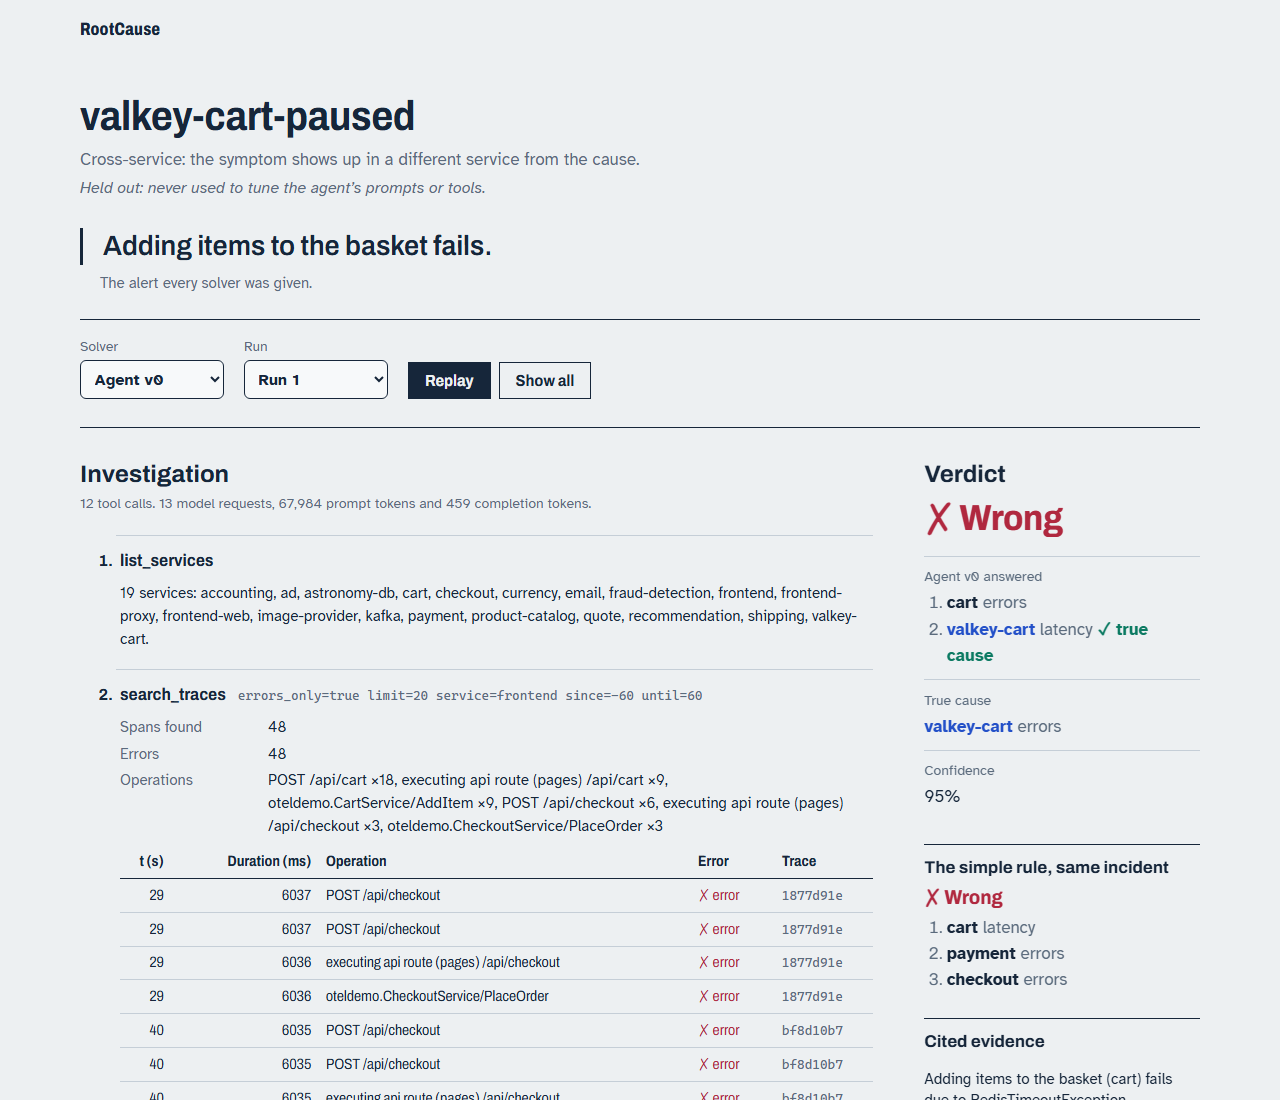
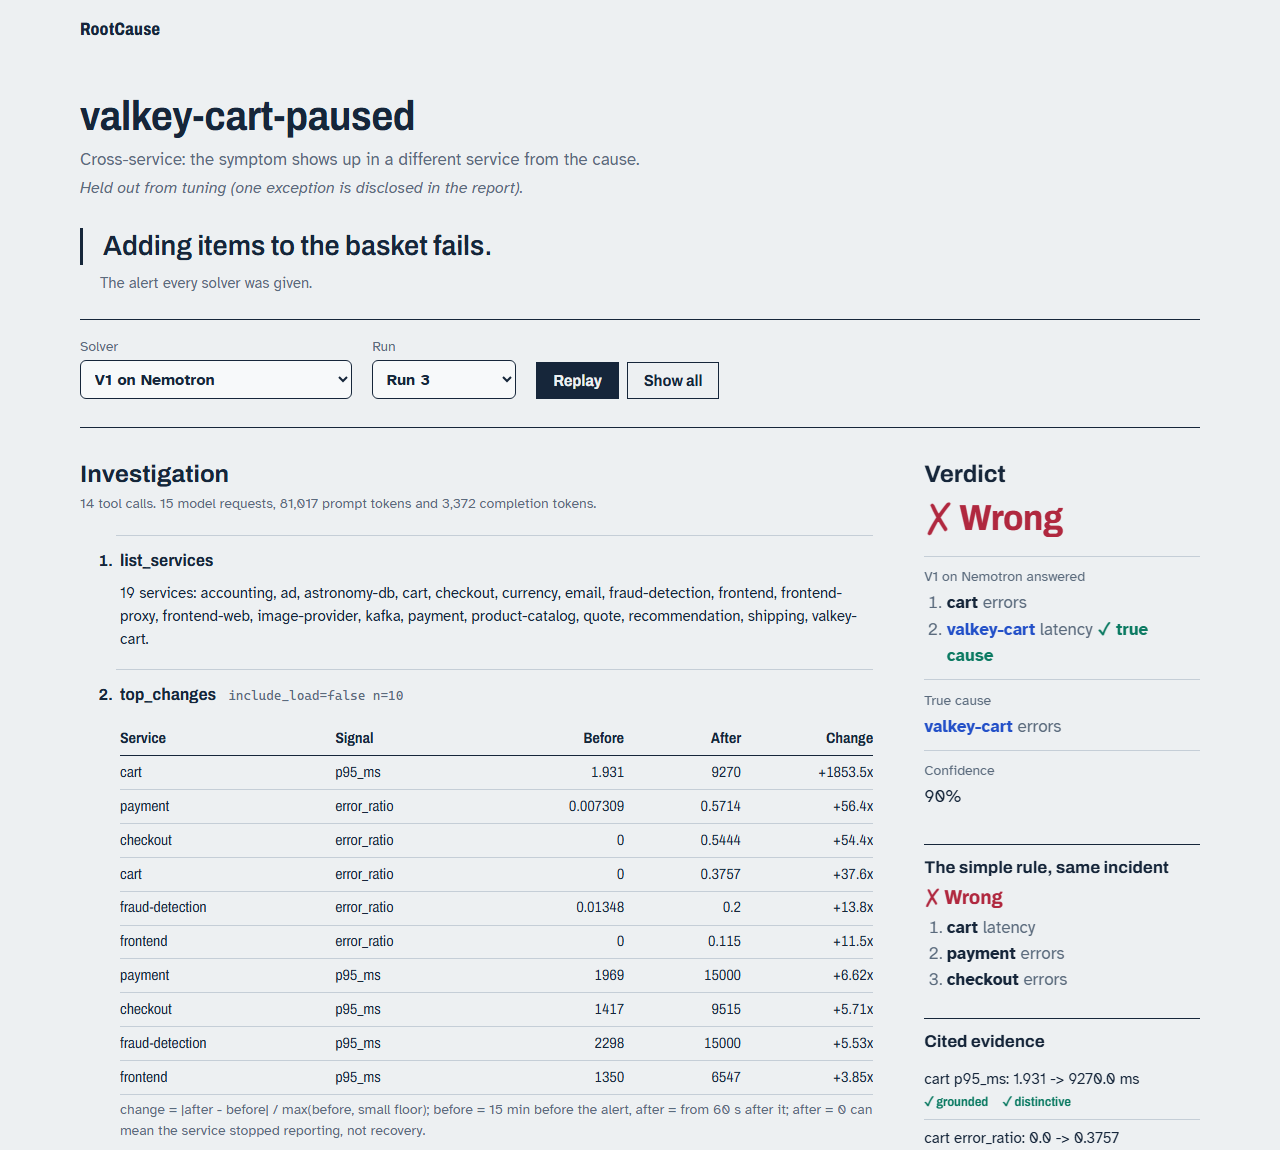
Scoreboard fits seven solvers (denser tiles, wider index page); screenshots retaken from the current build

diff --git a/site/assets/style.css b/site/assets/style.css
@@ -386,3 +386,13 @@ tfoot .total .acc { font-size: 1.75rem; }
   .pick { flex: 1 1 8rem; }
   .pick select { width: 100%; min-width: 0; }
 }
+
+/* many solvers: smaller tiles and narrower columns so the whole scoreboard fits the page */
+.scoreboard.dense th.incident { min-width: 12rem; width: 30%; }
+.scoreboard.dense .truth { min-width: 7rem; }
+.scoreboard.dense th.solver, .scoreboard.dense td.runs, .scoreboard.dense td.num { min-width: 6.25rem; }
+.scoreboard.dense th.solver { font-size: 1rem; }
+.scoreboard.dense .strip { gap: 2px; }
+.scoreboard.dense .tile { width: 1.15rem; height: 1.15rem; font-size: 0.75rem; }
+/* the scoreboard page is wider than the reading pages; its prose keeps its own measure */
+body[data-page="index"] main, body[data-page="index"] .masthead, body[data-page="index"] .colophon { max-width: 92rem; }

diff --git a/site/assets/app.js b/site/assets/app.js
@@ -175,7 +175,7 @@ async function renderIndex() {
     h("td", {}),
     solvers.map((s) => accuracyCell(overall[s])))) : null;
 
-  const table = h("table", { class: "scoreboard" },
+  const table = h("table", { class: solvers.length > 4 ? "scoreboard dense" : "scoreboard" },
     h("caption", { class: "visually-hidden" },
       "Scoreboard: one mark per recorded run, for each incident and solver, with accuracy by category"),
     head, groups, foot);

diff --git a/README.md b/README.md
@@ -72,9 +72,9 @@ A static site replays every recorded run, failures included:
 
 ![Scoreboard: one mark per run for each incident and solver](docs/images/scoreboard.png)
 
-![Replay of a held-out incident the agent got wrong: it named the symptom service first](docs/images/replay.png)
+![Replay of a held-out incident agent v1 on Nemotron got wrong: it ranked the symptom service, cart, above the paused valkey-cart](docs/images/replay.png)
 
-*(Screenshots from an earlier build, with only the heuristic and the partial agent v0 batch.)*
+*(Screenshots from 2026-10-15: the Gemini batches are still partial; empty tiles are runs not done yet.)*
 
 ```bash
 python -m rootcause report && python -m rootcause site   # regenerate figures and site/data from data/runs (see Data below)
